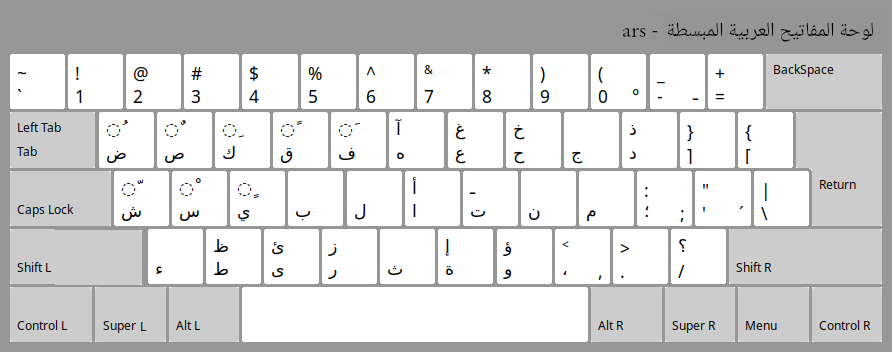
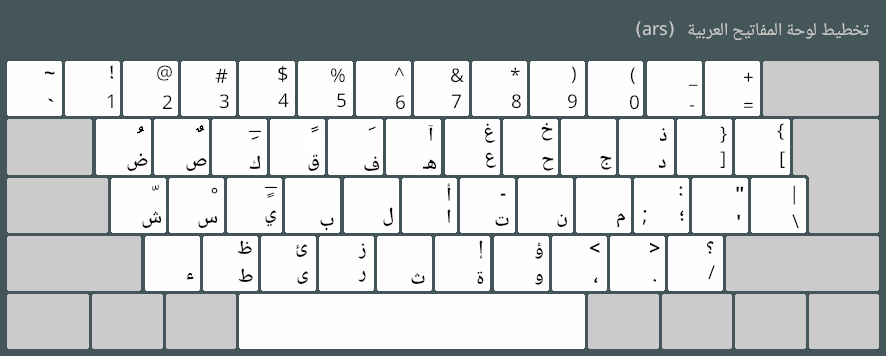
enhanced Arabic and English README. enhanced ars header (basic, name)

diff --git a/README.md b/README.md
@@ -11,7 +11,12 @@
 * تبسيط أخر يكمن في وضع الأحرف العربية المتشابهة على مفتاح واحد، مع استخدام **Shift** للوصول إلى أحدها.
 * رُتّبت الحركات العربية بحسب الحرف الأول من اسم كل حركة.
 
-### تخطيط لوحة المفاتيح `"ars"`
+### مظهر لوحة مفاتيح ثنائية اللغة عربية-إنجليزية `"ars"`
+
+![](ars-qw.png)
+
+
+### تخطيط لوحة المفاتيح العربية `"ars"`
 
 ![](ars.png)
 
@@ -21,21 +26,21 @@
 .
 ┤── linux/
 │     ┘── symbols/
-│           ┘── ars                    # تخطيط لوحة مفاتيح عربية مبسّط لنظام Linux
+│           ┘── ars                     # تخطيط لوحة مفاتيح عربية مبسّط لنظام Linux
 │     ┘── rules/
 │           ┘── evdev.xml               # لـ GNOME وPlasma (KDE)
 │     ┘── xsessionrc                    # ملف ~/.xsessionrc الخاص بي لـ LXDE
-│     ┘── ars-variant.png               # صورة أرقام النسخة «ars»: ١٢٣٤٥٦٧٨٩٠
-│     ┘── ars-color.png               
+│     ┘── ars-variant.png               # صورة لنسخة «ars» مع الارقام : ١٢٣٤٥٦٧٨٩٠
 ┤── windows/
 │     ┘── ars-install/                  # تخطيط لوحة مفاتيح عربية مبسّط لنظام Windows
 │       ┘── setup.exe ...               # أُنشئ باستخدام MSKLC.exe
-│     ┘── arsc-install/...              # أرقام النسخة «arsc» (إحدى نسخ «ars»): ١٢٣٤٥٦٧٨٩٠
+│     ┘── arsc-install/...              # أرقام النسخة «arsc» : ١٢٣٤٥٦٧٨٩٠
 │     ┘── images/                       # صور
 ┤── README.md
-┤── README-English.md
+┤── README-En.md
 ┘── ars.png
 ┘── ars-qw.png                          # تخطيط لوحة مفاتيح QWERTY العربية الفعلية (ars)
+┘── ars-color.png               
 ```
 
 ## البدء السريع
@@ -64,10 +69,6 @@
 
 - انسخ المجلد `ars-install/` وشغّل `setup.exe`.
 - ملاحظة: أُنشئ المجلد `"install/"` باستخدام `Microsoft Keyboard Layout Creator` (MSKLC.exe).
-
-### تخطيط لوحة مفاتيح QWERTY فعلية ثنائية اللغة (عربية-إنجليزية) `"ars"`
-
-![](ars-qw.png)
 
 ## الترخيص
 

diff --git a/README-En.md b/README-En.md
@@ -12,7 +12,11 @@ and punctuation in both the Arabic and English keyboards layouts.
 * Another simplification is to place similarly shaped Arabic characters on the same key, using **Shift** to access one of them. 
 * Arabic vowels are arranged according to the first letter of each vowel's name.
 
-### The `"ars"` keyboard layout
+### Bilingual `"ars"` Arabic-English QWERTY keyboard 
+
+![](ars-qw.png)
+
+### The `"ars"` Arabic keyboard layout
 
 ![](ars.png)
 
@@ -27,16 +31,16 @@ and punctuation in both the Arabic and English keyboards layouts.
 │           └── evdev.xml			# for GNOME, Plasma (KDE)
 │     └── xsessionrc				# my ~/.xsessionrc for LXDE 
 │     └── ars-variant.png			# image "ars" variant numbers : ١٢٣٤٥٦٧٨٩٠ 
-│     └── ars-color.png			
 ├── windows/
 │     └── ars-install/				# simplified Arabic keyboard layout for Windows
 │       └── setup.exe ...           # created using MSKLC.exe 
 │     └── arsc-install/...			# "arsc" ("ars" variant) numbers : ١٢٣٤٥٦٧٨٩٠
 │     └── images/ 			        # images 
 ├── README.md
-├── README-English.md
+├── README-En.md
 └── ars.png                     
 └── ars-qw.png                      # Layout of the physical Arabic QWERTY keyboard (ars)
+└── ars-color.png			
 
 ```
 
@@ -66,10 +70,6 @@ to your `~/.xsessionrc` file.
 ### Windows
 - Copy `ars-install/` folder and execute `setup.exe`.
 - Remark : `"install/"` folder created using `Microsoft Keyboard Layout Creator` (MSKLC.exe)
-
-### Layout of a physical bilingual Arabic-English QWERTY keyboard `"ars"` 
-
-![](ars-qw.png)
 
 ## License
 This repository is licensed under `MIT License`. 
